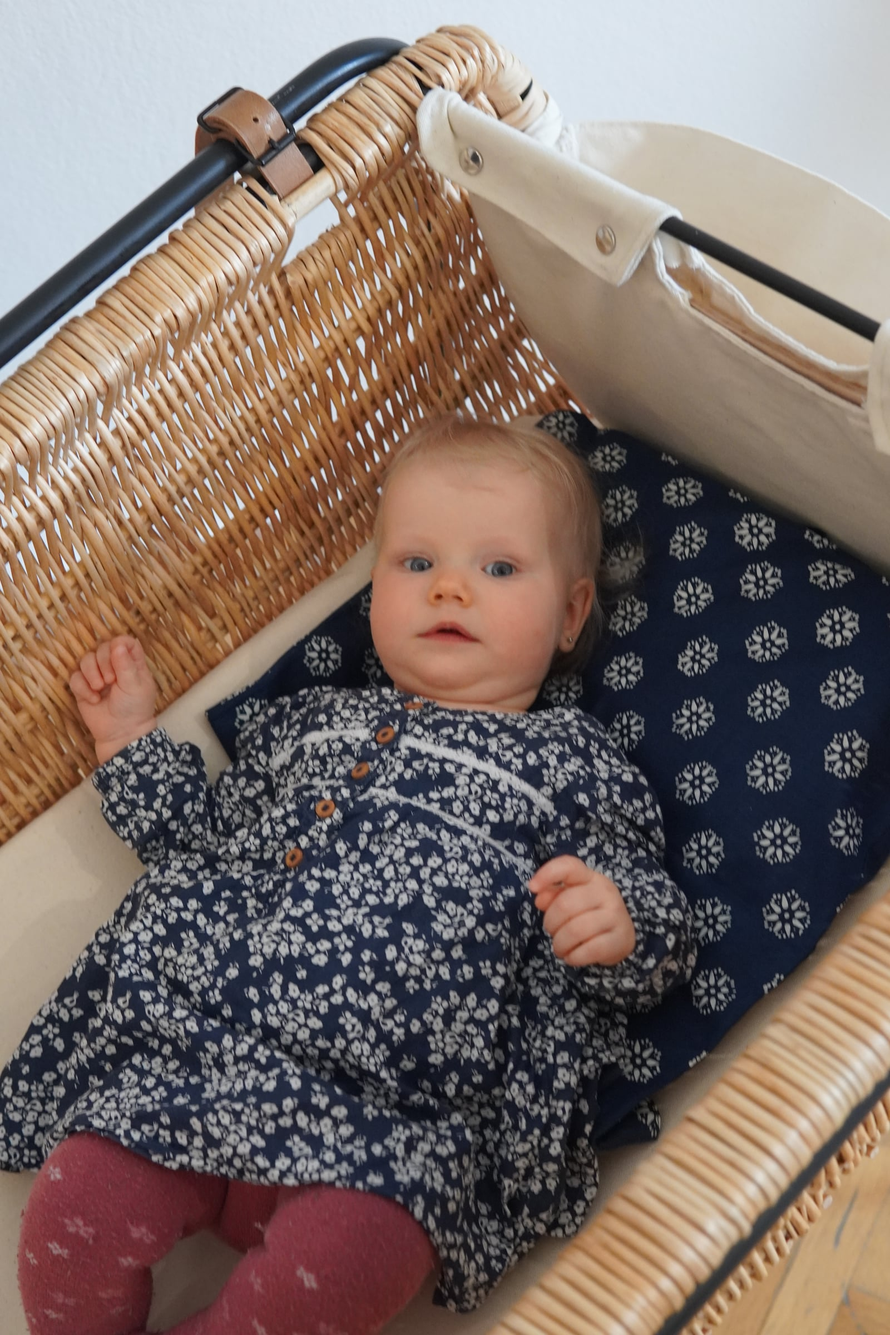
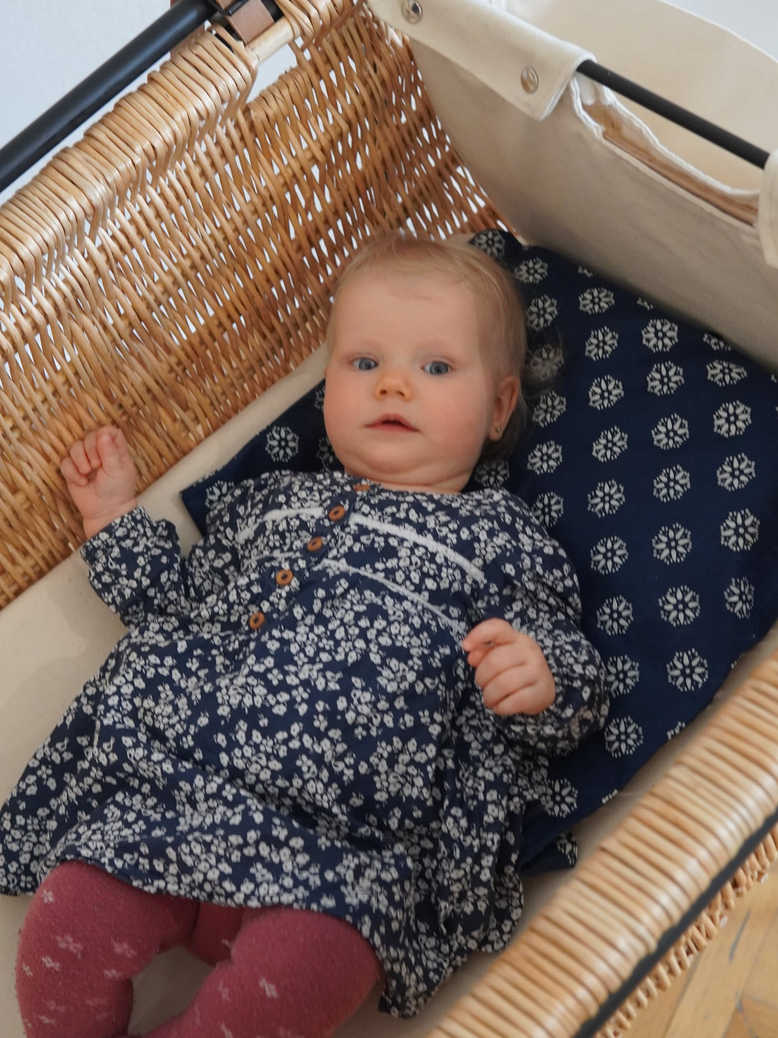
Rebuild the Rhea page in the full-width 3-column mosaic layout
Adds wide tiles, a spacer row and a scroll cue to the mosaic template, and
the new Rhea photos (woman at the cradle, baby, willow rods, feet at the runner).

diff --git a/src/data/projects.ts b/src/data/projects.ts
@@ -63,7 +63,8 @@ import kockiBox from '../assets/kocki/box.jpg';
 import kockiPlay1 from '../assets/kocki/play-1.jpg';
 import kockiPlay2 from '../assets/kocki/play-2.jpg';
 import kockiPlay3 from '../assets/kocki/play-3.jpg';
-import rheaIntro from '../assets/rhea/intro.jpg';
+import rheaHero from '../assets/rhea/hero.jpg';
+import rheaWoman from '../assets/rhea/woman.jpg';
 import rheaStraw from '../assets/rhea/straw.jpg';
 import rheaHands from '../assets/rhea/hands.jpg';
 import rheaBelt from '../assets/rhea/belt.jpg';
@@ -107,20 +108,24 @@ export interface GalleryImage {
   animated?: boolean;
 }
 
-/** A photo in the 3-column mosaic layout. Portrait = 3:4 (2 grid rows), landscape = 3:2 (1 row). */
+/** A photo in the 3-column mosaic layout. Portrait = 3:4 (2 grid rows), landscape = 3:2 (1 row), wide = 3:2 across two columns (2 rows). */
 export interface MosaicTile {
   src: ImageMetadata;
   alt: string;
   col: 1 | 2 | 3;
   /** 1-based grid row where the tile starts; rows are half a portrait photo tall. */
   row: number;
-  shape: 'portrait' | 'landscape';
+  shape: 'portrait' | 'landscape' | 'wide';
 }
 
 /** Optional editorial layout for a project's detail page. */
 export interface ProjectDetail {
   /** If set, the page uses the full-width 3-column mosaic instead of the standard layout. */
   mosaic?: MosaicTile[];
+  /** Mosaic only: an empty row of this many grid rows' height, inserted as row number `row` (a breathing space; tiles after it use the shifted row numbers). */
+  mosaicSpacer?: { row: number; size: number };
+  /** Mosaic only: a small downward arrow in the spacer row, under the text. */
+  scrollCue?: boolean;
   /** Portrait photo shown beside the intro text. */
   intro?: ImageMetadata;
   /** Big photo under the intro; defaults to the project's `cover`. Use `null` to show a "coming soon" box instead. */
@@ -273,27 +278,20 @@ export const projects: Project[] = [
     cover: wickerCradleCover,
     body: 'The wicker cradle Rhea was created as part of the Bohemian Perfection project, a collaboration between students and traditional craftspeople. As part of this initiative, I focused on the craft of basketry and designed a baby cradle for infants up to 8 months of age. My goal was to modernize the craft and traditional production of wicker baskets, maximizing the use of natural materials while giving them a contemporary design. I was personally involved in the fabrication process, spending many days in the workshop with master basket weaver Mr. Král to gain invaluable hands-on experience in this beautiful craft.',
     detail: {
-      intro: rheaIntro,
       credits: ['Collaboration: Petr Král', 'Photography: Tereza Horičková'],
-      columns: [
-        [
-          'When I was little, my parents would put me down to sleep in the fresh air in good weather, in a basket hung on the terrace, rocking me to sleep as I lay there. This motion is pleasantly soothing for small children. I tried to make use of these memories: my cradle can be rocked, can stand firmly on the floor, and can also be hung from a ceiling or a terrace. This is possible thanks to a simple anti-rocking brake in the form of a wooden log, and thanks to leather straps that can be attached not only to the frame but also to ropes, so the cradle can be suspended in the space.',
-          'I spent several days in the workshop of basket weaver Petr Král, helping him weave a basket, or rather trying to.',
-        ],
-        [
-          'Weaving in the willow rods is physically demanding work that requires strong hands, and after just a few rods mine always started to ache. Mr. Král, however, managed it with ease, and the basket was finished in 3 days.',
-          'Besides the skilled craftsmen and myself, I involved my whole family in the production. My father and I found old leather from a gym mat, my uncle brought plywood, my grandmother linen sheets: simply “whatever the house could give”. It seems to me that even this process continues traditions of the past. When a woman was expecting a baby, the whole family pooled together whatever it had, so that the new arrival would feel good from the very first moment.',
-        ],
-      ],
-      gallery: [
-        { src: rheaStraw, alt: 'Bundles of willow rods in the workshop', col: 'left', size: 82 },
-        { src: rheaLegs, alt: 'The cradle’s rocking runners on a tiled floor', col: 'right' },
-        { src: rheaHands, alt: 'Fastening the canvas lining inside the cradle', col: 'left' },
-        { src: rheaSigns, alt: 'Craft certification signs in the basket weaver’s workshop', col: 'right' },
-        { src: rheaBelt, alt: 'Leather strap and woven rim detail', col: 'left' },
-        { src: rheaSwing, alt: 'Rhea hung as a swing in the exhibition', col: 'right', size: 75 },
-        { src: rheaRocker, alt: 'Steel frame joined to a wooden runner', col: 'left' },
-        { src: rheaBaby, alt: 'A baby lying in the cradle', col: 'right', size: 75 },
+      scrollCue: true,
+      mosaicSpacer: { row: 3, size: 0.46 },
+      mosaic: [
+        { src: rheaHero, alt: 'The Rhea wicker cradle on a rocking frame in a concrete hall', col: 2, row: 1, shape: 'wide' },
+        { src: rheaHands, alt: 'Fastening the canvas lining inside the cradle', col: 2, row: 4, shape: 'landscape' },
+        { src: rheaStraw, alt: 'Bundles of willow rods in the workshop', col: 1, row: 5, shape: 'portrait' },
+        { src: rheaLegs, alt: 'A person rocking the cradle with their foot on the wooden runner', col: 3, row: 5, shape: 'landscape' },
+        { src: rheaBelt, alt: 'Leather strap and woven rim detail', col: 2, row: 7, shape: 'landscape' },
+        { src: rheaWoman, alt: 'A woman leaning over the cradle in a concrete hall', col: 3, row: 7, shape: 'portrait' },
+        { src: rheaRocker, alt: 'The cradle’s rocking runner on a tiled floor', col: 1, row: 8, shape: 'landscape' },
+        { src: rheaBaby, alt: 'A baby lying in the cradle', col: 2, row: 9, shape: 'portrait' },
+        { src: rheaSwing, alt: 'Rhea hung as a swing in the exhibition', col: 1, row: 11, shape: 'portrait' },
+        { src: rheaSigns, alt: 'Craft certification signs in the basket weaver’s workshop', col: 3, row: 11, shape: 'landscape' },
       ],
     },
   },
